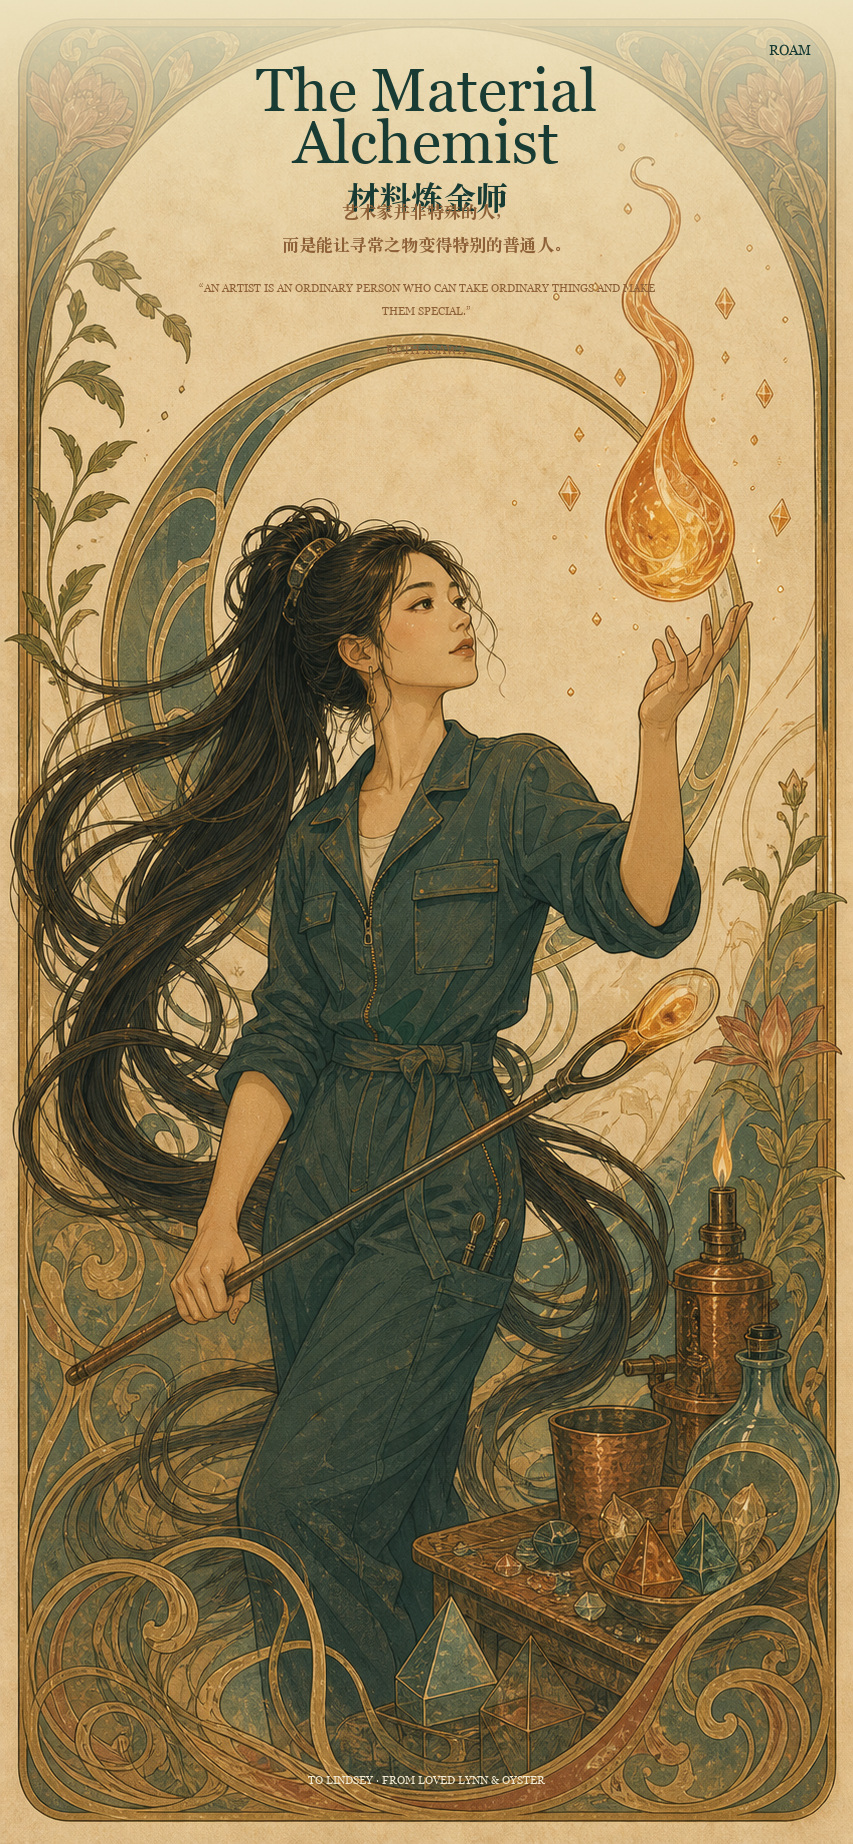
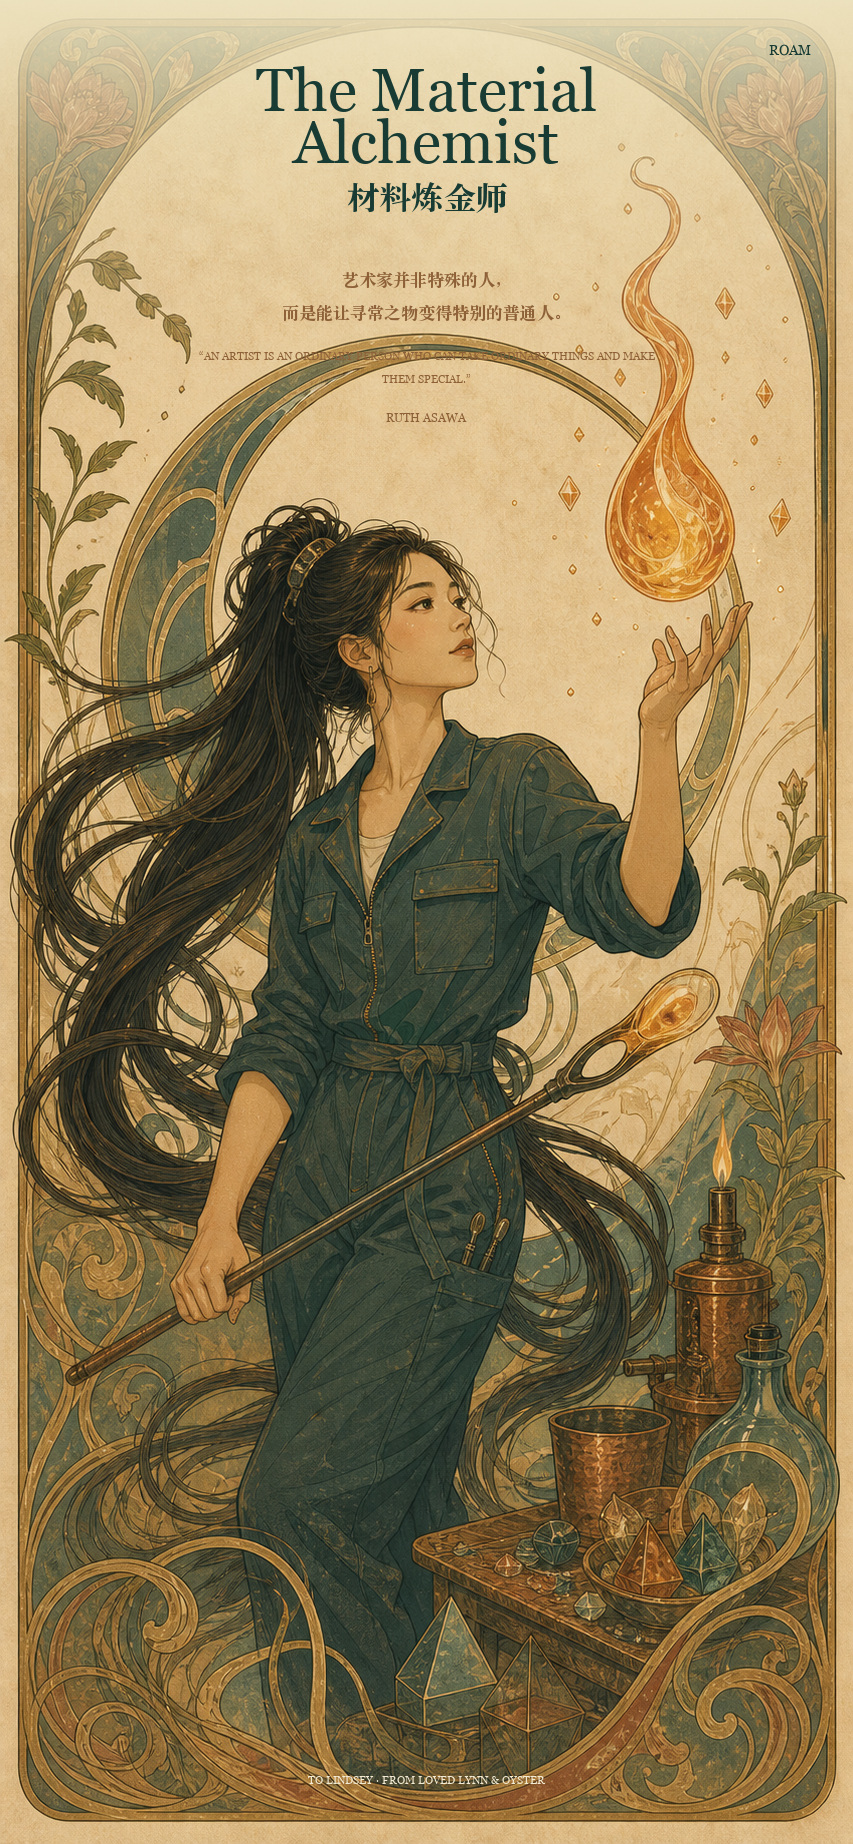
Fix saved persona and long portrait images

Changed region(s): [[0.3353, 0.0927, 0.6401, 0.2164]]

diff --git a/app.js b/app.js
@@ -194,7 +194,7 @@ const personalities = {
     en: "The Material Alchemist",
     cn: "材料炼金师",
     symbol: "A",
-    poster: "./assets/personas/final-posters/material.jpg",
+    poster: "./assets/personas/final-posters/material.jpg?v=2",
     quoteCn: "艺术家并非特殊的人，而是能让寻常之物变得特别的普通人。",
     quoteEn: "AN ARTIST IS AN ORDINARY PERSON WHO CAN TAKE ORDINARY THINGS AND MAKE THEM SPECIAL.",
     quoteAuthor: "RUTH ASAWA",
@@ -640,6 +640,30 @@ function wrapCanvasText(ctx, text, x, y, maxWidth, lineHeight, maxLines = 10) {
   return y + lines * lineHeight;
 }
 
+function wrapCanvasWords(ctx, text, x, y, maxWidth, lineHeight, maxLines = 10) {
+  const words = text.split(/\s+/);
+  let line = "";
+  let lines = 0;
+
+  words.forEach((word) => {
+    if (lines >= maxLines) return;
+    const test = line ? `${line} ${word}` : word;
+    if (ctx.measureText(test).width > maxWidth && line) {
+      ctx.fillText(line, x, y + lines * lineHeight);
+      line = word;
+      lines += 1;
+    } else {
+      line = test;
+    }
+  });
+
+  if (line && lines < maxLines) {
+    ctx.fillText(line, x, y + lines * lineHeight);
+    lines += 1;
+  }
+  return y + lines * lineHeight;
+}
+
 function canvasSectionLabel(ctx, text, x, y) {
   ctx.fillStyle = "#b88250";
   ctx.font = "24px Georgia, serif";
@@ -657,27 +681,14 @@ function canvasSectionRule(ctx, y) {
   ctx.stroke();
 }
 
-function drawImageCover(ctx, image, x, y, width, height, radius = 32) {
-  const imageRatio = image.naturalWidth / image.naturalHeight;
-  const targetRatio = width / height;
-  let sourceWidth = image.naturalWidth;
-  let sourceHeight = image.naturalHeight;
-  let sourceX = 0;
-  let sourceY = 0;
-
-  if (imageRatio > targetRatio) {
-    sourceWidth = image.naturalHeight * targetRatio;
-    sourceX = (image.naturalWidth - sourceWidth) / 2;
-  } else {
-    sourceHeight = image.naturalWidth / targetRatio;
-    sourceY = (image.naturalHeight - sourceHeight) / 2;
-  }
-
+function drawImageContained(ctx, image, x, y, width, radius = 32) {
+  const height = Math.round(width * (image.naturalHeight / image.naturalWidth));
   ctx.save();
   roundRect(ctx, x, y, width, height, radius);
   ctx.clip();
-  ctx.drawImage(image, sourceX, sourceY, sourceWidth, sourceHeight, x, y, width, height);
+  ctx.drawImage(image, x, y, width, height);
   ctx.restore();
+  return height;
 }
 
 async function drawLongPortrait() {
@@ -693,7 +704,7 @@ async function drawLongPortrait() {
   });
 
   canvas.width = 1080;
-  canvas.height = recommendation.type === "schedule" ? 4720 : 4480;
+  canvas.height = 6500;
 
   const gradient = ctx.createLinearGradient(0, 0, 1080, canvas.height);
   gradient.addColorStop(0, "#eef0e5");
@@ -721,8 +732,8 @@ async function drawLongPortrait() {
   ctx.fillText(`${direction} · TO LINDSEY`, 960, 132);
   ctx.textAlign = "left";
 
-  drawImageCover(ctx, image, 120, 190, 840, 1120, 30);
-  let nextY = 1395;
+  const posterHeight = drawImageContained(ctx, image, 120, 190, 840, 30);
+  let nextY = 190 + posterHeight + 85;
   canvasSectionRule(ctx, nextY);
 
   nextY += 74;
@@ -786,7 +797,7 @@ async function drawLongPortrait() {
   nextY += 18;
   ctx.fillStyle = "#4e675e";
   ctx.font = "italic 25px Georgia, serif";
-  nextY = wrapCanvasText(ctx, `“${personality.quoteEn}”`, 120, nextY, 840, 40, 5);
+  nextY = wrapCanvasWords(ctx, `“${personality.quoteEn}”`, 120, nextY, 840, 40, 5);
   nextY += 18;
   ctx.fillStyle = "#b88250";
   ctx.font = "21px Georgia, serif";